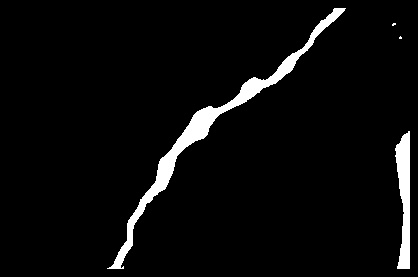
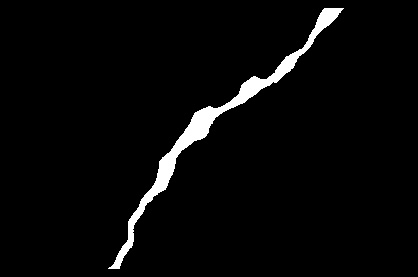
1

Changed region(s): [[0.933, 0.4621, 0.9952, 0.9819], [0.7464, 0.0289, 0.8397, 0.1155]]

diff --git a/crack_analysis.py b/crack_analysis.py
@@ -9,9 +9,7 @@ from pathlib import Path
 import matplotlib.pyplot as plt
 
 
-data_path = Path("./data/concrete_crack");data_path.mkdir(parents=1,exist_ok=1)
-out_path = Path("./out/crack_mask");out_path.mkdir(parents=1,exist_ok=1)
-sam_checkpoint = Path("./sam_vit_h_4b8939.pth")
+
 
 def edge_supression(mask, e=8):
     h,w=mask.shape
@@ -19,29 +17,31 @@ def edge_supression(mask, e=8):
     out[e:h-e,e:w-e] = mask[e:h-e,e:w-e]
     return out
 
+def area_criteria(mask):   
+    return mask["area"]>70_000 
 
-if __name__=="__main__":
-    
+def sam_quantify_crack(img):
     model_type = "vit_h"
     device = "cuda"
     sam = sam_model_registry[model_type](checkpoint=str(sam_checkpoint))
     sam.to(device=device)
     mask_generator = SamAutomaticMaskGenerator(sam)
-    def area_criteria(mask):
-        return mask["area"]>50_000
+    masks = mask_generator.generate(img)
+    filtered_masks = filter(area_criteria, masks)
+    crack = np.ones_like(masks[0]["segmentation"], dtype=bool)
+    for mask in filtered_masks:
+        crack[mask["segmentation"]]=0
+    crack = edge_supression(crack)
+    return crack.astype(int)*255
+
+if __name__=="__main__":
+    data_path = Path("./data/concrete_crack");data_path.mkdir(parents=1,exist_ok=1)
+    out_path = Path("./out/crack_mask");out_path.mkdir(parents=1,exist_ok=1)
+    sam_checkpoint = Path("./sam_vit_h_4b8939.pth")    
     for im_name in os.listdir(data_path):
         
         img = cv2.imread(str(data_path/im_name))
-        img = cv2.cvtColor(img, cv2.COLOR_BGR2RGB)
-        masks = mask_generator.generate(img)
-        # sorted_mask = sorted(masks,key=(lambda x: x['area']),reverse=True)
-        filtered_masks = filter(area_criteria, masks)
-        crack = np.zeros_like(masks[0]["segmentation"], dtype=bool)
-        
-        for mask in filtered_masks:
-            crack = np.bitwise_or( crack, mask["segmentation"]) 
-        crack = np.bitwise_not(crack).astype(int)*255
-        crack = edge_supression(crack)
+        crack = sam_quantify_crack(img)
         cv2.imwrite(str(out_path/im_name), crack)   
         # del mask_generator
         # del masks
